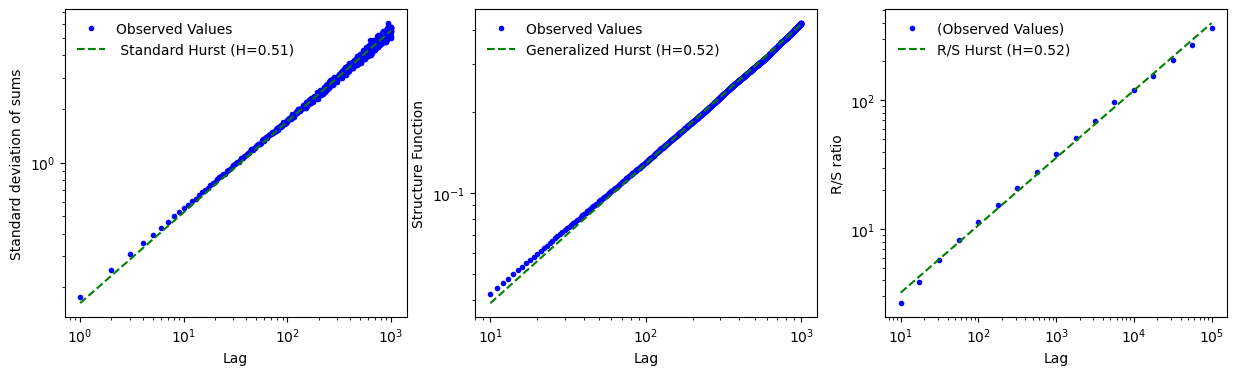
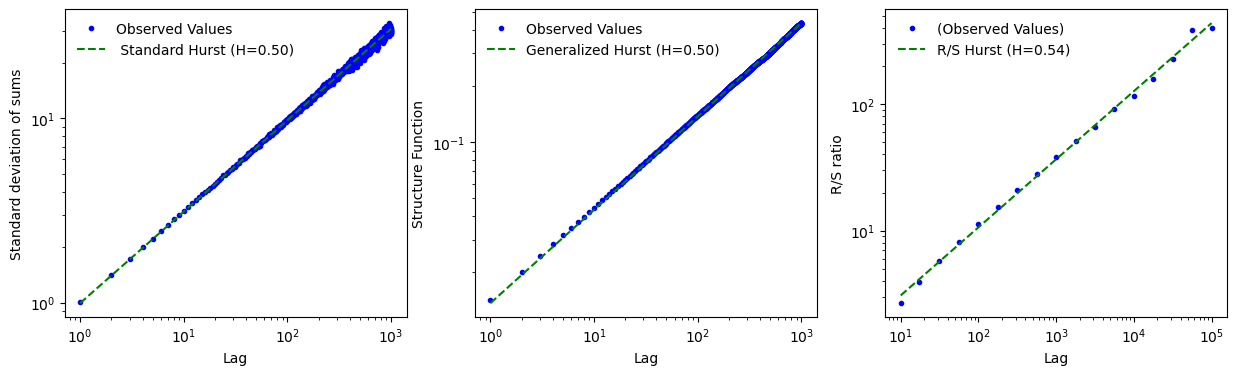
Minor cleanup

diff --git a/hurstexponent/hurst_exponent.py b/hurstexponent/hurst_exponent.py
@@ -99,7 +99,7 @@ class HurstEstimator:
         mean = np.mean(series)
         if mean != 0:
             # Convert noise like time series to random walk like time series
-            series = (self.ts - mean)/np.mean(series) # If not, subtract the mean to center the data around zero
+            series = (self.ts - mean) # If not, subtract the mean to center the data around zero
             series = np.diff(series) # Diff each observation making a series stationary
 
         min_lag = min_lag
@@ -142,7 +142,7 @@ class HurstEstimator:
         return H, c, [list(valid_lags), y_values]
 
 
-    def generalized_hurst(self, moment: int = 1, fitting_method: str = 'least_squares', min_lag: int = 10,
+    def generalized_hurst(self, moment: int = 1, fitting_method: str = 'least_squares', min_lag: int = 1,
                           max_lag: int = 1000) -> Tuple[float, float, List[List[float]]]:
         """
         Estimate the generalized Hurst exponent of a time series using the specified method.
@@ -183,7 +183,8 @@ class HurstEstimator:
         mean = np.mean(series)
         if mean != 0:
             # Convert noise like time series to random walk like time series
-            series = (self.ts - mean) / np.mean(series)  # If not, subtract the mean to center the data around zero
+            series = (self.ts - mean) # If not, subtract the mean to center the data around zero
+
 
         min_lag = min_lag
         max_lag = min(max_lag, len(series))
@@ -335,11 +336,8 @@ if __name__ == '__main__':
     # Use random_walk() function or generate a random walk series manually:
     series = stochastic_process(99999, proba=.5, cumprod=False)
 
-    # Series generated from a function, in this example, autocorrelation function (ACF)
-    # ACF_RANGE = len(sample)+1
-    # ACF_RANGE = 1001
-    #
-    # # Autocorrection function (ACF) of data sample
+
+    # Autocorrection function (ACF) of data sample
     # def acf(series: pd.Series, lags: int) -> List:
     #     """
     #     Returns a list of autocorrelation values for each of the lags from 0 to `lags`
@@ -353,6 +351,10 @@ if __name__ == '__main__':
     #
     # # Load sample data – TSLA stock trade signs.
     # sample = pd.read_csv('../stock_tsla.csv', header=0, index_col=0)
+    # # Series generated from a function, in this example, autocorrelation function (ACF)
+    # ACF_RANGE = len(sample) + 1
+    # ACF_RANGE = 1001
+    #
     # acf_series = acf(sample['trade_sign'], ACF_RANGE)[1:]
 
 
@@ -360,12 +362,12 @@ if __name__ == '__main__':
     hurst_estimator = HurstEstimator(series)
 
     # Hurst
-    H, D, data, interpretation = hurst_estimator.estimate('standard_hurst')
+    H, D, data, interpretation = hurst_estimator.estimate('standard_hurst', fitting_method = 'mle')
     print(f"Hurst Estimate via Standard Hurst: {H}, D constant: {D if D is not None else 'N/A'}, ({interpretation})")
 
     # Generalized Hurst
     moment = 1
-    H, c, data, interpretation = hurst_estimator.estimate('generalized_hurst', moment=moment)
+    H, c, data, interpretation = hurst_estimator.estimate('generalized_hurst', moment=moment, fitting_method = 'mle')
     print(f"Hurst Estimate via generalized_hurst: {H}, c constant: {c if c is not None else 'N/A'} ({interpretation})")
 
     # Rescaled Range
@@ -399,7 +401,7 @@ if __name__ == '__main__':
     fig, axs = plt.subplots(1, 3, figsize=(15, 4))  # Adjusted for 3 subplots
 
     # Standard Hurst
-    H, D, data, interpretation = hurst_estimator.estimate('standard_hurst')
+    H, D, data, interpretation = hurst_estimator.estimate('standard_hurst',  fitting_method = 'mle')
     lag_sizes, y_values = data
     axs[0].plot(lag_sizes, y_values, 'b.', label='Observed Values')
     axs[0].plot(lag_sizes, D * np.array(lag_sizes) ** H, "g--", label=f' Standard Hurst (H={H:.2f})')
@@ -411,7 +413,7 @@ if __name__ == '__main__':
 
     # Generalized Hurst
     moment = 1
-    H, c, data, _ = hurst_estimator.estimate('generalized_hurst', moment=moment)
+    H, c, data, _ = hurst_estimator.estimate('generalized_hurst', moment=moment,  fitting_method = 'mle')
     tau, S_q_tau = data  # change to raw values instead of logarithmic
     log_tau = np.log10(tau)  # calculate log_tau
     c = np.mean(np.log10(S_q_tau)) - H * np.mean(log_tau)  # calculate constant with log_S_q_tau
